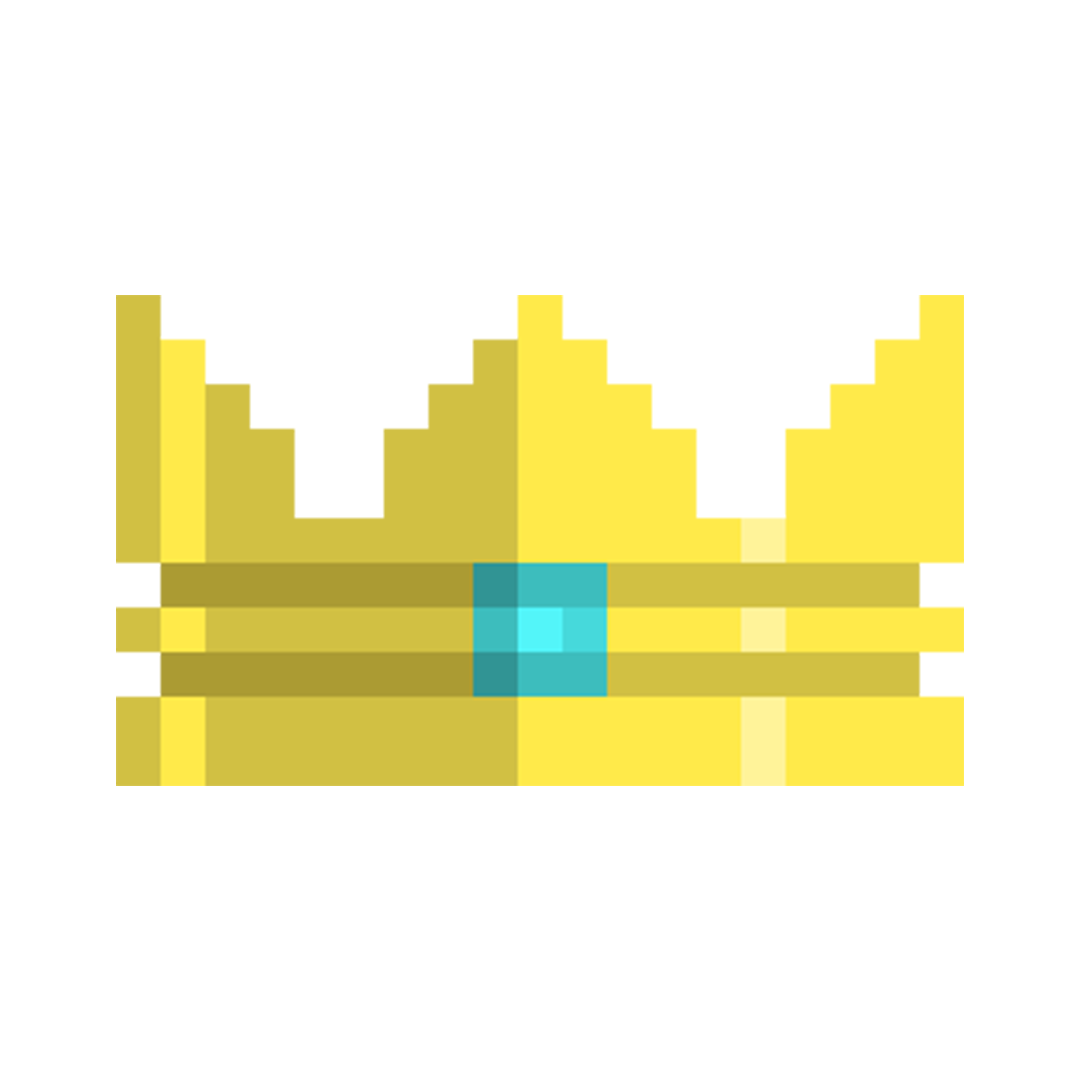
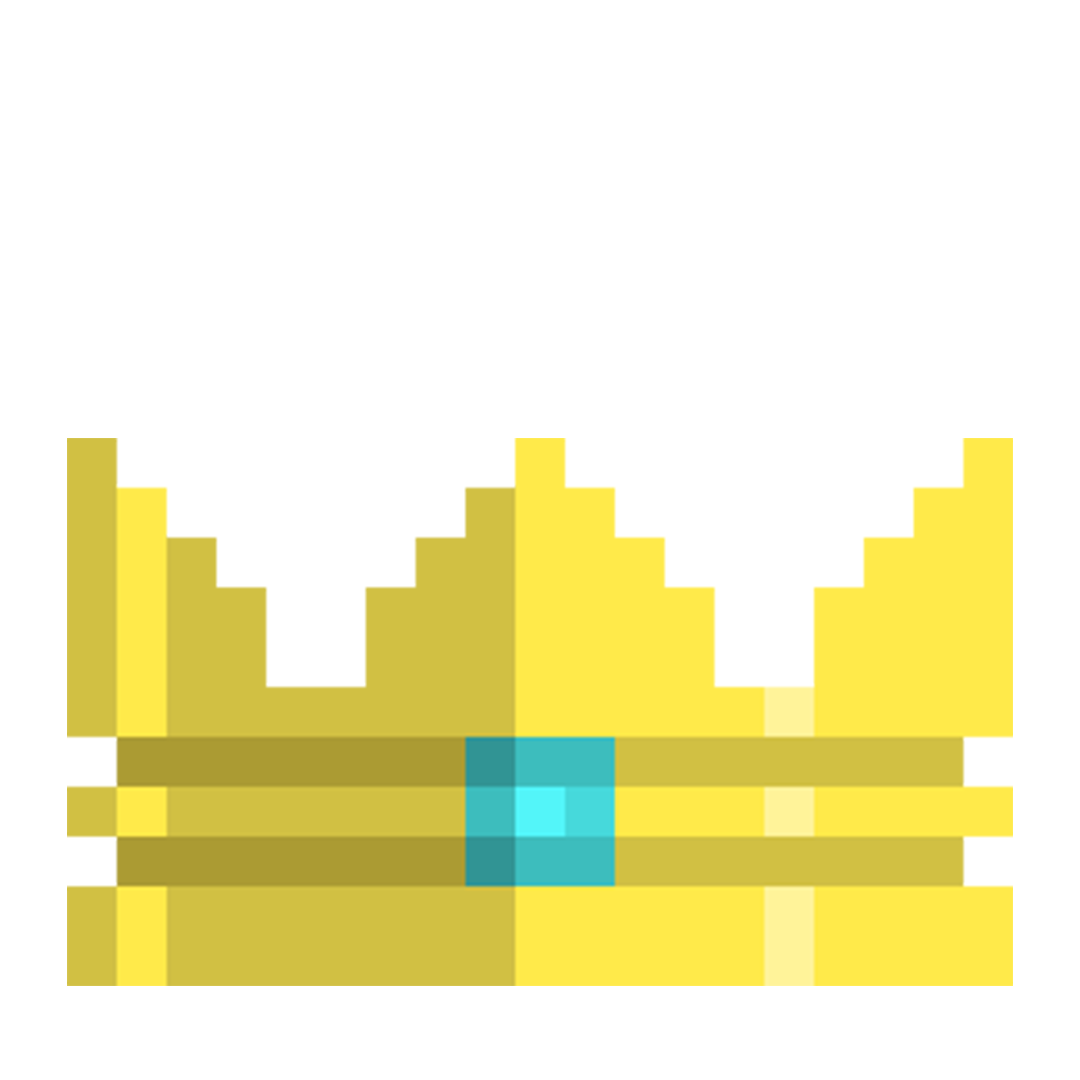
update from source repo

diff --git a/src/components/Info.js b/src/components/Info.js
@@ -32,9 +32,9 @@ class Info extends React.Component{
 
         this.state = {
             text: [
+                ['Cutting-edge workshops hosted by tech-saavy programmers', network],
                 ['High-school-centric, all skill levels welcome hackathon at UCSD', backpack],
-                ['Close project mentorship with university students in STEM', crown],
-                ['Cutting-edge workshops hosted by tech-saavy programmers', network]
+                ['Close project mentorship with university students in STEM', crown]
             ]
         };
     }

diff --git a/src/css/Info.css b/src/css/Info.css
@@ -35,7 +35,7 @@ Additional Info coloring, spacing, and style goes here
 .info-image{
   display: block;
   width: 60%;
-  padding: 2em 0;
+  padding: 2.5em 0 0;
   margin: auto;
 }
 
